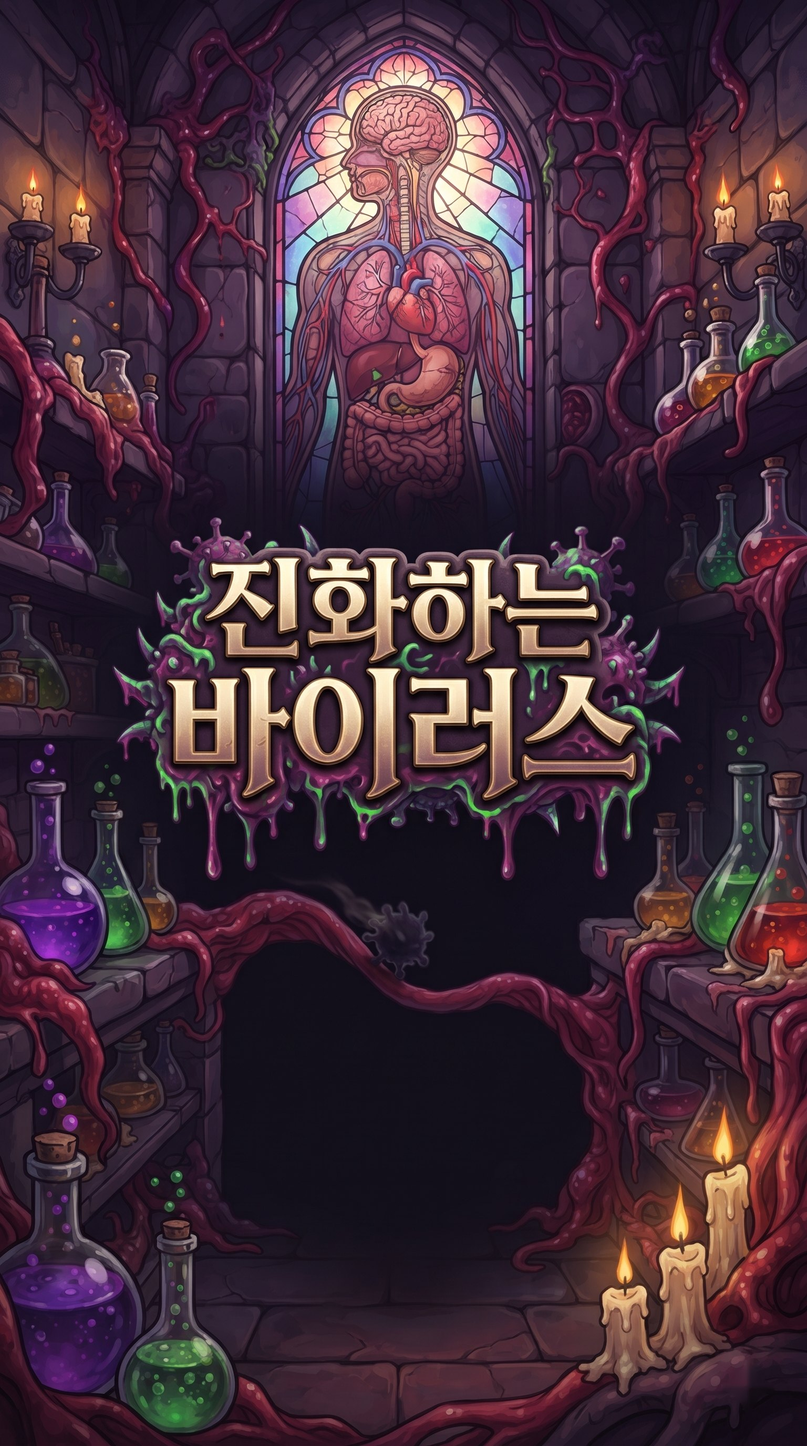
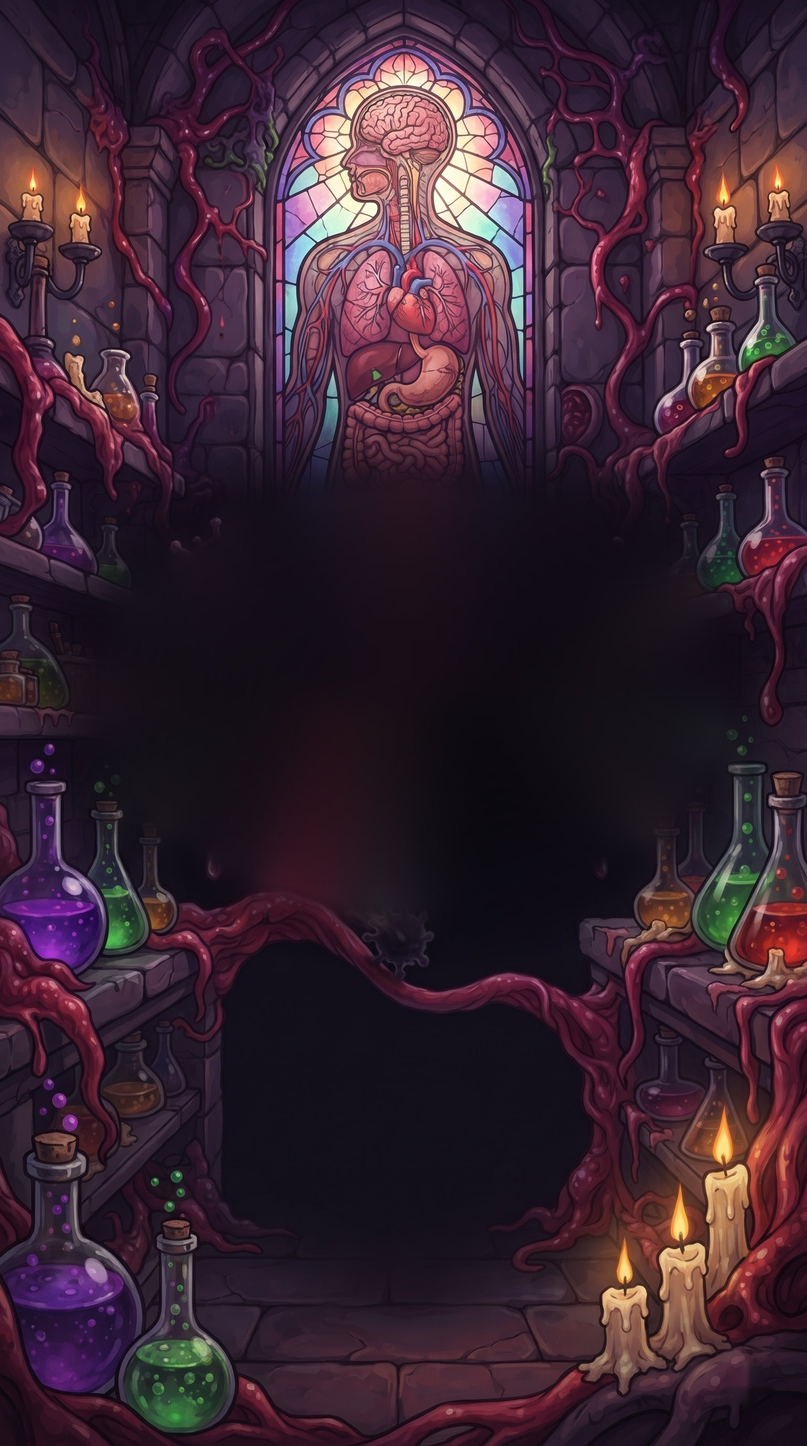
게임 이름 변경: 우쭈쭈 바이러스 — 몸속 정복 대작전
- 시작 화면 제목을 그림 대신 글자로 (귀여운 둥근 글꼴, 점액 방울), 부제 '몸속 정복 대작전'
- 배경 그림의 옛 제목 글자를 지운 임시 배경

Claude-Session: https://claude.ai/code/session_01NxXvvHffuwvNyfjUsgWtGb

Changed region(s): [[0.125, 0.3438, 0.8438, 0.6562], [0.9062, 0.5, 0.9375, 0.5625], [0.8125, 0.5625, 0.8438, 0.5938]]

diff --git a/index.html b/index.html
@@ -3,9 +3,9 @@
 <head>
 <meta charset="utf-8">
 <meta name="viewport" content="width=device-width,initial-scale=1,maximum-scale=1,user-scalable=no">
-<title>진화하는 바이러스 — v5 프로토타입</title>
+<title>우쭈쭈 바이러스 — 몸속 정복 대작전</title>
 <link rel="preconnect" href="https://fonts.googleapis.com">
-<link href="https://fonts.googleapis.com/css2?family=Nanum+Myeongjo:wght@700;800&family=Cinzel:wght@700&display=swap" rel="stylesheet">
+<link href="https://fonts.googleapis.com/css2?family=Nanum+Myeongjo:wght@700;800&family=Cinzel:wght@700&family=Jua&display=swap" rel="stylesheet">
 <style>
   * { box-sizing: border-box; -webkit-tap-highlight-color: transparent; }
   html, body { margin: 0; height: 100%; overflow: hidden; background: #0b0607; color: #eadcc2;
@@ -272,10 +272,18 @@
   #coach .cr button { min-height: 28px; font-size: 12px; padding: 0 10px; }
   #intro { position: absolute; inset: 0; z-index: 60; background: #0b0607; transition: opacity .6s; overflow: hidden; } #intro.out { opacity: 0; pointer-events: none; }
   #introCv { position: absolute; inset: 0; width: 100%; height: 100%; }
-  .inTop { position: absolute; left: 0; right: 0; top: 9%; text-align: center; pointer-events: none; }
-  .inTitle { font-size: 44px; font-weight: 800; line-height: 1.1; letter-spacing: 2px; background: linear-gradient(180deg, #fff2c8, #ffcf6a 45%, #c8742a); -webkit-background-clip: text; background-clip: text; color: transparent; filter: drop-shadow(0 3px 0 #2a0e08) drop-shadow(0 0 18px rgba(255,140,60,.55)); }
+  .inTop { position: absolute; left: 0; right: 0; top: 47.5%; transform: translateY(-50%); text-align: center; pointer-events: none; }
+  .inTitle { font-family: 'Jua', 'Do Hyeon', 'Apple SD Gothic Neo', 'Noto Sans KR', sans-serif; font-weight: 400; line-height: 1; letter-spacing: 1px; animation: ttBob 3.2s ease-in-out infinite; }
+  .inTitle .t1, .inTitle .t2 { position: relative; display: block; background: linear-gradient(180deg, #fff0fb 0%, #ff9ee0 38%, #c45cff 72%, #7a2ad0 100%); -webkit-background-clip: text; background-clip: text; color: transparent;
+    filter: drop-shadow(3px 0 0 #2a0a24) drop-shadow(-3px 0 0 #2a0a24) drop-shadow(0 3px 0 #2a0a24) drop-shadow(0 -3px 0 #2a0a24) drop-shadow(0 6px 0 #14040f) drop-shadow(0 0 22px rgba(220,110,255,.65)); }
+  .inTitle .t1 { display: inline-block; font-size: clamp(64px, 21vw, 96px); transform: rotate(-3deg); }
+  .inTitle .t2 { font-size: clamp(40px, 13vw, 60px); margin-top: 4px; background: linear-gradient(180deg, #f2ffe0 0%, #b8ff6a 45%, #5fc23a 100%); -webkit-background-clip: text; background-clip: text; transform: rotate(2deg); }
+  .inTitle .dr { position: absolute; top: 78%; width: 12px; height: var(--h); border-radius: 0 0 8px 8px; background: linear-gradient(#e47ae0, #a43adf); box-shadow: 0 0 0 3px #2a0a24; animation: drip 2.6s ease-in infinite; }
+  .inTitle .dr::after { content: ''; position: absolute; left: -2px; bottom: -8px; width: 16px; height: 16px; border-radius: 50%; background: #a43adf; box-shadow: 0 0 0 3px #2a0a24; }
+  @keyframes drip { 0%, 60% { transform: scaleY(1); transform-origin: top; } 80% { transform: scaleY(1.25); } 100% { transform: scaleY(1); } }
+  @keyframes ttBob { 50% { transform: translateY(-5px) scale(1.02); } }
   .inTitle img { width: 86%; max-width: 420px; }
-  .inSub { margin-top: 6px; font-family: 'Cinzel', serif; font-size: 13px; letter-spacing: 6px; color: #e8a0ff; text-shadow: 0 0 10px #a040ff; }
+  .inSub { margin-top: 14px; font-family: 'Jua', 'Do Hyeon', sans-serif; font-size: 18px; letter-spacing: 5px; color: #ffe6a8; text-shadow: 0 2px 0 #2a0a24, 0 0 12px rgba(255,180,80,.7); }
   .inBot { position: absolute; left: 0; right: 0; bottom: 7%; text-align: center; padding: 0 24px; }
   .inTag { font-size: 14px; color: #f5e8d0; text-shadow: 0 2px 4px #000; margin-bottom: 14px; word-break: keep-all; }
   .inGo { width: 100%; max-width: 320px; min-height: 58px; font-size: 20px; animation: inPulse 1.6s ease-in-out infinite; }
@@ -388,7 +396,7 @@
 
   <div class="plate" id="hubTip" hidden></div>
   <div id="intro"><canvas id="introCv"></canvas>
-    <div class="inTop" id="inTop"><div class="inTitle">진화하는<br>바이러스</div><div class="inSub">EVOLVING VIRUS</div></div>
+    <div class="inTop" id="inTop"><div class="inTitle"><span class="t1">우쭈쭈<i class="dr" style="left:14%;--h:20px"></i><i class="dr" style="left:46%;--h:30px"></i><i class="dr" style="left:80%;--h:14px"></i></span><span class="t2">바이러스</span></div><div class="inSub">몸속 정복 대작전</div></div>
     <div class="inBot" id="inBot"><div class="inTag">작은 바이러스 하나로 사람의 몸 전체를 감염시켜라</div><button class="btn red inGo" id="inGo">▶ 감염 시작</button><div class="inHint">소리를 켜면 더 재밌어요 🔊</div></div>
     <div class="inStory" id="inStory" hidden></div>
   </div>
@@ -401,7 +409,7 @@
 <script>
 'use strict';
 /* =====================================================================
- * 진화하는 바이러스 — v4 프로토타입
+ * 우쭈쭈 바이러스 — 몸속 정복 대작전 (옛 이름: 진화하는 바이러스)
  * 인체 지도에서 침투 기관 선택 → 기관마다 다른 길·난이도·목표 그림 → 군중 침투
  * 주석의 [모듈] 단위로 자르면 설계서의 파일 구조가 된다.
  * ===================================================================== */
@@ -3573,7 +3581,7 @@ canvas.addEventListener('pointerdown', e => {
 });
 window.addEventListener('resize', () => { fit(); if (!run) ui.showHub(); });
 
-loadAssets().then(() => { buildHybridImgs(); buildLegendImgs(); buildNewImgs(); save.squad = [0, 1, 2].map(i => (save.squad || [])[i] || null); if (!squadGenes().length) autoSquad(); fit(); ui.showHub('body'); requestAnimationFrame(frame); $('inGo').textContent = save.introSeen ? '▶ 이어하기' : '▶ 감염 시작'; if (has('intro_bg')) $('inTop').style.display = 'none'; else if (has('title_logo')) document.querySelector('.inTitle').innerHTML = '<img src="assets/title_logo.png" alt="진화하는 바이러스">'; requestAnimationFrame(introLoop); });
+loadAssets().then(() => { buildHybridImgs(); buildLegendImgs(); buildNewImgs(); save.squad = [0, 1, 2].map(i => (save.squad || [])[i] || null); if (!squadGenes().length) autoSquad(); fit(); ui.showHub('body'); requestAnimationFrame(frame); $('inGo').textContent = save.introSeen ? '▶ 이어하기' : '▶ 감염 시작'; if (has('title_logo')) document.querySelector('.inTitle').innerHTML = '<img src="assets/title_logo.png" alt="진화하는 바이러스">'; requestAnimationFrame(introLoop); });
 </script>
 </body>
 </html>

diff --git a/README.md b/README.md
@@ -1,4 +1,4 @@
-# 진화하는 바이러스
+# 우쭈쭈 바이러스 — 몸속 정복 대작전
 
 작은 바이러스 하나로 사람의 몸 전체를 감염시키는 모바일 웹 게임입니다. 바이러스가 공격하고 면역 탑이 막는, 거꾸로 된 타워 디펜스예요.
 
